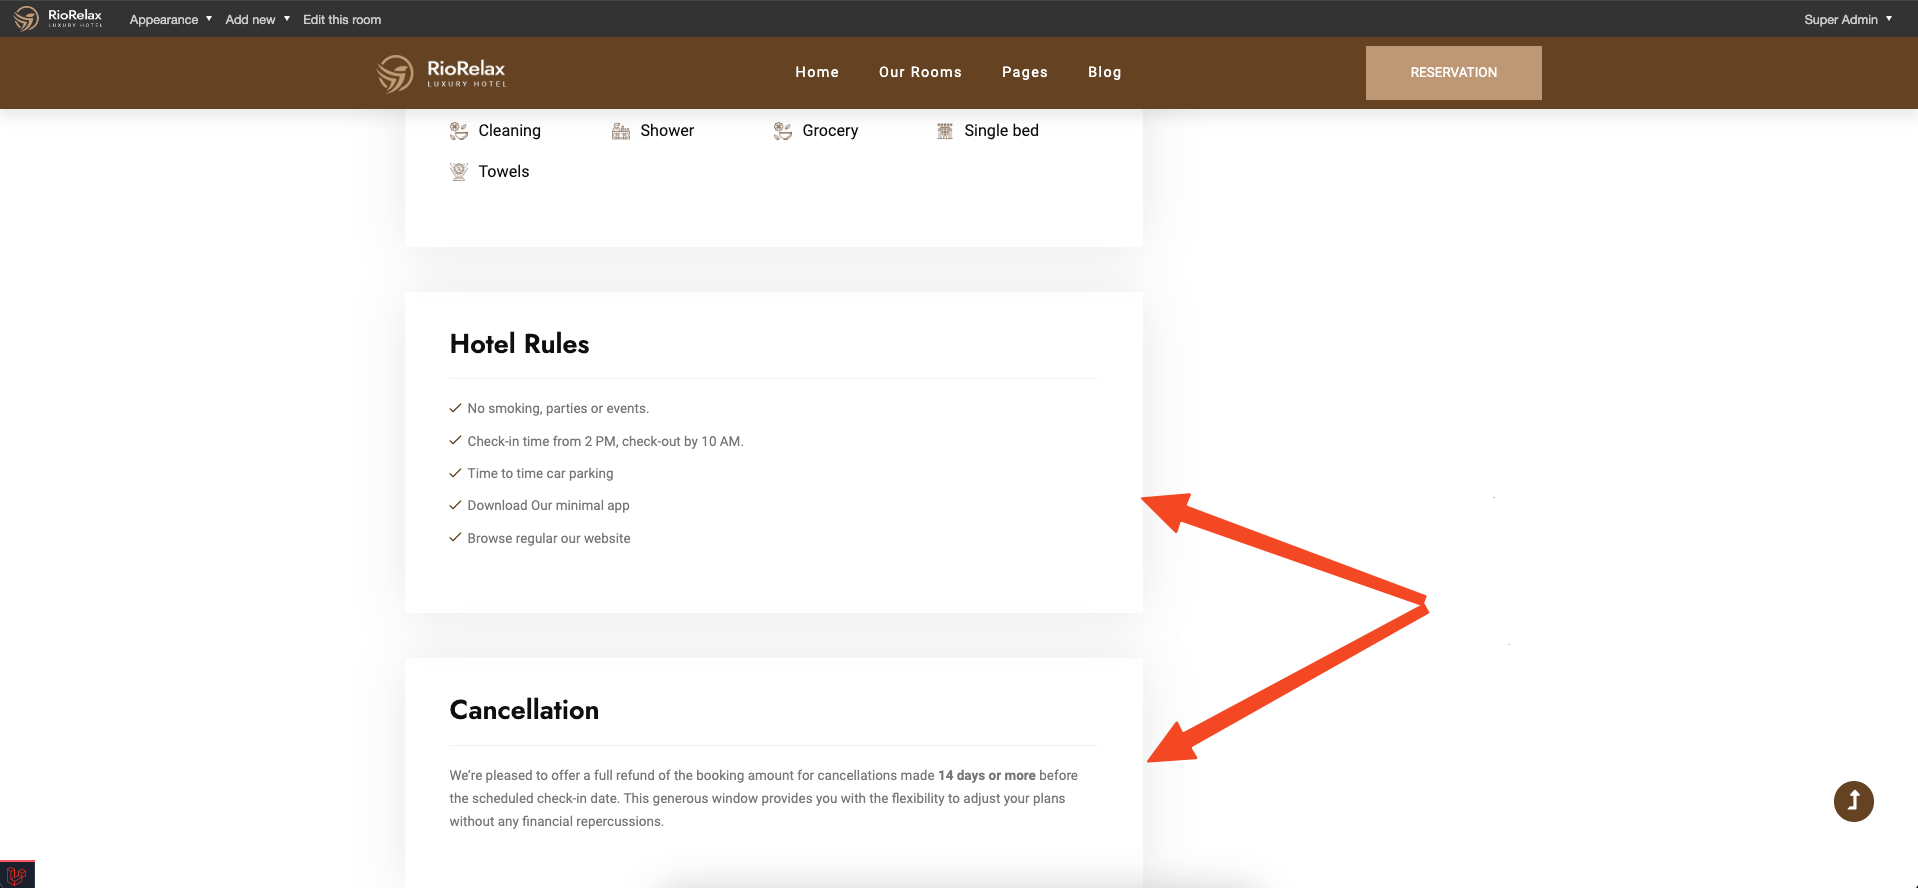
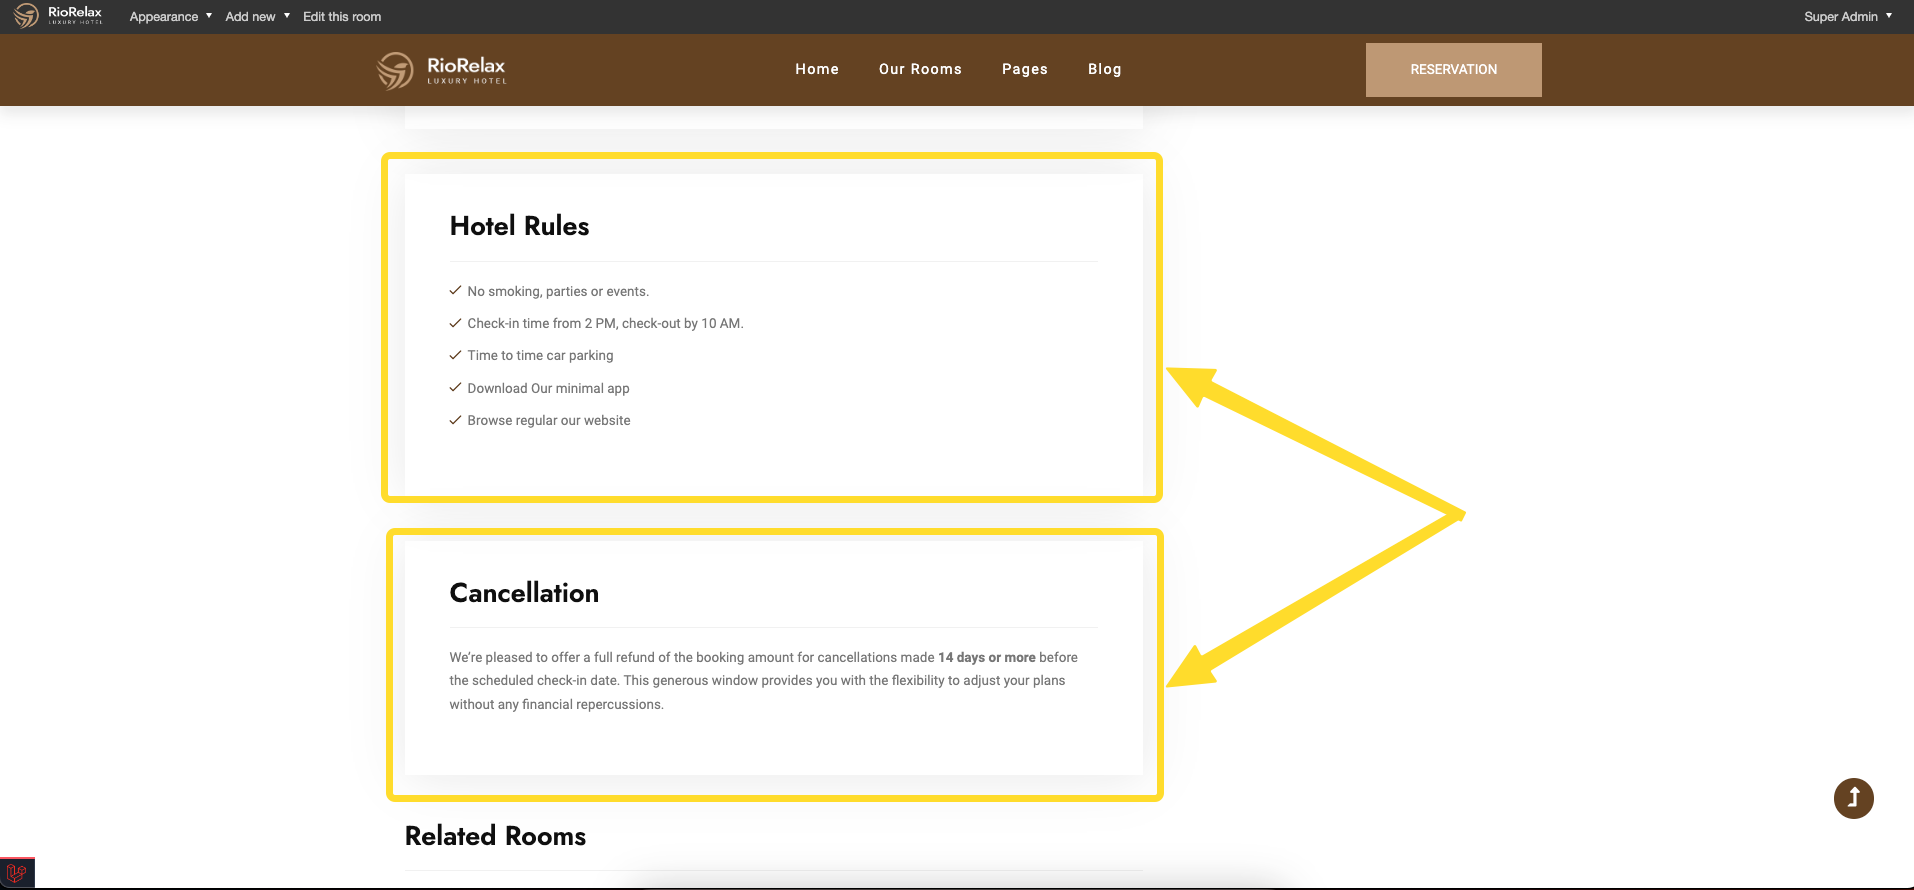
update hotel booking, delete used img and md file

diff --git a/sidebar.ts b/sidebar.ts
@@ -28,7 +28,6 @@ export default [
       { text: 'Custom CSS/JS', link: '/riorelax/usage-custom-css-js' },
       { text: 'Translation', link: '/riorelax/usage-translation' },
       { text: 'Multi-language', link: '/riorelax/usage-multi-language' },
-      { text: 'Currencies', link: '/riorelax/usage-currencies' },
       { text: 'Location', link: '/riorelax/usage-location' },
       { text: 'Analytics', link: '/riorelax/usage-analytics' },
       { text: 'Media - Setup Amazon S3', link: '/riorelax/usage-media-s3' },

diff --git a/hotel-booking.md b/hotel-booking.md
@@ -22,7 +22,7 @@ When you are logged into the admin account, the admin configuration bar will app
 
 ![](images/hotel-booking-room-front-2.png)
 
-These hotel rules and cancellation policies can also be configured in the Theme Options within the admin settings.
+These Hotel Rules, Cancellation Policies and Contact Information (Yellow Arrow) can also be configured in the Theme Options within the admin settings.
 
 ![](images/hotel-booking-room-back-1.png)
 
@@ -40,7 +40,7 @@ Don't forget to set the category for the room, adjust the status (only published
 
 ## Categories
 
-**This session help you to create new category tag for your rooms.**
+This session help you to create new category tag for your rooms.
 
 ![](images/hotel-booking-categories-back.png)
 ![](images/hotel-booking-category-back.png)
@@ -49,13 +49,13 @@ Rooms with the same category will appear in the 'Related Rooms' section. The hig
 
 ## Amenities
 
-**This session help you to create new amenity tag for your rooms.**
+This session help you to create new amenity tag for your rooms.
 
 ![](images/hotel-booking-amenities-back.png)
 
 ## Services
 
-**This session help you to create new service for your Business.**
+This session help you to create new service for your Business.
 
 ![](images/hotel-booking-services-back.png)
 ![](images/hotel-booking-service-back.png)
@@ -67,13 +67,13 @@ These services will be used in the Services listing and the Service detail page.
 
 ## Customers, Taxes, Setting
 
-**This section helps you manage your customers' accounts, configure taxes (VAT, etc.) based on your country, and set up the currency.**
+This section helps you manage your customers' accounts, configure taxes (VAT, etc.) based on your country, and set up the currency.
 
 ![](images/hotel-booking-settings-back.png)
 
 ## Bookings Management:
 
-**We provide powerful tools to assist you in managing all bookings with ease.**
+We provide powerful tools to assist you in managing all bookings with ease.
 
 ![](images/hotel-booking-bookings-back.png)
 ![](images/hotel-booking-booking-detail.png)
